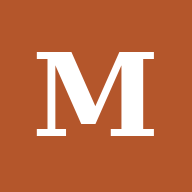
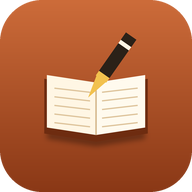
Add files via upload

diff --git a/index.html b/index.html
@@ -1,5 +1,5 @@
 <!DOCTYPE html>
-<html lang="uz"><head><meta charset="utf-8"><title>Muallif</title><link rel="manifest" href="manifest.json"><meta name="theme-color" content="#b4562b"><link rel="icon" href="icon-192.png"><link rel="apple-touch-icon" href="icon-192.png">
+<html lang="uz"><head><meta charset="utf-8"><title>Muallif: kitob yozish makoni</title><link rel="manifest" href="manifest.json"><meta name="theme-color" content="#b4562b"><link rel="icon" href="icon-192.png"><link rel="apple-touch-icon" href="apple-touch-icon.png"><meta name="description" content="O‘zbek tilida kitob yozing, muqova yarating va EPUB yoki PDF qilib yuklab oling."><meta property="og:type" content="website"><meta property="og:locale" content="uz_UZ"><meta property="og:site_name" content="Muallif"><meta property="og:title" content="Muallif: kitob yozish makoni"><meta property="og:description" content="Yozing, muqova yarating, EPUB va PDF oling. Kitoblaringiz bulutda xavfsiz."><meta property="og:url" content="https://wwwavazovrustam87-wq.github.io/MUALLIF/"><meta property="og:image" content="https://wwwavazovrustam87-wq.github.io/MUALLIF/og.png"><meta property="og:image:width" content="1200"><meta property="og:image:height" content="630"><meta name="twitter:card" content="summary_large_image"><meta name="mobile-web-app-capable" content="yes"><meta name="apple-mobile-web-app-capable" content="yes"><meta name="apple-mobile-web-app-title" content="Muallif">
 <meta name="viewport" content="width=device-width, initial-scale=1, viewport-fit=cover">
 <style>
 :root{--bg:#faf6ef;--card:#fff;--tx:#2b2118;--mut:#8a7b6b;--ac:#b4562b;--ln:#e8dfd1;box-sizing:border-box;padding-top:env(safe-area-inset-top,0px);padding-bottom:env(safe-area-inset-bottom,0px)}
@@ -222,6 +222,7 @@ function cl(){$("sheet").classList.remove("show")}
 $("sheet").onclick=e=>{if(e.target.id=="sheet"){cl();if(S.tab=="write")render()}};
 if(navigator.storage&&navigator.storage.persist)navigator.storage.persist().then(p=>{S.pst=p;if(S.tab=="me")render()}).catch(()=>{});
 applyTh();
+{const hm=location.hash.slice(1);if(["write","cover","notes","books","me"].includes(hm)){S.tab=hm;history.replaceState(null,"",location.pathname)}}
 rec().then(()=>{if(AU)setTimeout(pull,400)});
 document.addEventListener("visibilitychange",()=>{if(!AU)return;if(document.hidden){if(ch()!==S.lh)push(true)}else pull()});
 addEventListener("pagehide",()=>{keep();save()});document.addEventListener("visibilitychange",()=>{keep();save()});

diff --git a/sw.js b/sw.js
@@ -1,4 +1,4 @@
-const C="muallif-v9",F=["./","index.html","manifest.json","icon-192.png","icon-512.png"];
+const C="muallif-v10",F=["./","index.html","manifest.json","icon-192.png","icon-512.png","icon-maskable-512.png","apple-touch-icon.png"];
 self.addEventListener("install",e=>{e.waitUntil(caches.open(C).then(c=>c.addAll(F)));self.skipWaiting()});
 self.addEventListener("activate",e=>{e.waitUntil(caches.keys().then(k=>Promise.all(k.filter(x=>x!==C).map(x=>caches.delete(x)))));self.clients.claim()});
 self.addEventListener("fetch",e=>{if(e.request.method!=="GET"||!e.request.url.startsWith(location.origin))return;e.respondWith(fetch(e.request).then(r=>{const c=r.clone();caches.open(C).then(x=>x.put(e.request,c));return r}).catch(()=>caches.match(e.request).then(r=>r||caches.match("index.html"))))});
